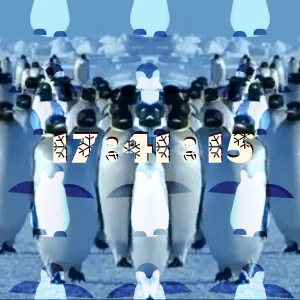
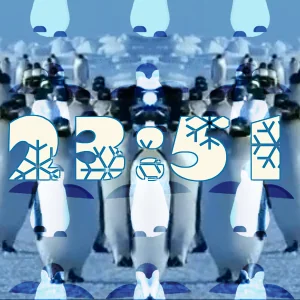
x

diff --git a/src/pages/2026/26-07/26-07-05/Clock.tsx b/src/pages/2026/26-07/26-07-05/Clock.tsx
@@ -92,14 +92,12 @@ const formatDigits = (num: number): string => num.toString().padStart(2, '0');
 const DigitalClock: FC = () => {
   const time = useSecondClock();
 
-  const { hours, minutes, seconds, isoTime } = useMemo(() => {
+  const { hours, minutes, isoTime } = useMemo(() => {
     const h = formatDigits(time.getHours());
     const m = formatDigits(time.getMinutes());
-    const s = formatDigits(time.getSeconds());
     return {
       hours: h,
       minutes: m,
-      seconds: s,
       isoTime: time.toISOString(),
     };
   }, [time]);
@@ -114,11 +112,6 @@ const DigitalClock: FC = () => {
       <div className={styles.digitGroup}>
         <div className={styles.digitBox}>{minutes[0]}</div>
         <div className={styles.digitBox}>{minutes[1]}</div>
-      </div>
-      <div className={styles.separator}>:</div>
-      <div className={styles.digitGroup}>
-        <div className={styles.digitBox}>{seconds[0]}</div>
-        <div className={styles.digitBox}>{seconds[1]}</div>
       </div>
     </time>
   );

diff --git a/src/pages/2026/26-07/26-07-05/Clock.module.css b/src/pages/2026/26-07/26-07-05/Clock.module.css
@@ -80,13 +80,15 @@
   align-items: center;
   justify-content: center;
   font-family: 'ClockFont', 'Courier New', Courier, monospace;
-  font-size: 12vw;
+  font-size: 26vw;
   color: #fbf7e6;
-  text-shadow:
-    1px -2px 0px rgb(37, 3, 3);
-    /* 0 0 15px rgba(105, 87, 12, 0.864),
-    0 0 30px rgba(125, 22, 22, 0.806); */
+text-shadow:
+    -1px -1px 0 rgb(4, 113, 168),  /* Top-Left */
+     1px -1px 0 rgb(4, 113, 168),   /* Top-Right */
+    -1px  1px 0 rgb(4, 113, 168),  /* Bottom-Left */
+     1px  1px 0 rgb(4, 113, 168);  /* Bottom-Right */
 }
+                                                            
 
 .digitGroup {
   display: flex;
@@ -96,11 +98,12 @@
   display: flex;
   align-items: center;
   justify-content: center;
-  width: 0.7em; /* Use em to scale with font-size */
+  width: 22vw; /* Use em to scale with font-size */
   text-align: center;
-  /* margin: 0 -0.01em; */
+  /* margin: 0 -2vw; */
+
 }
 
 .separator {
-  margin: 0 0.2em;
+  margin: 0 0.9vw;
 }
